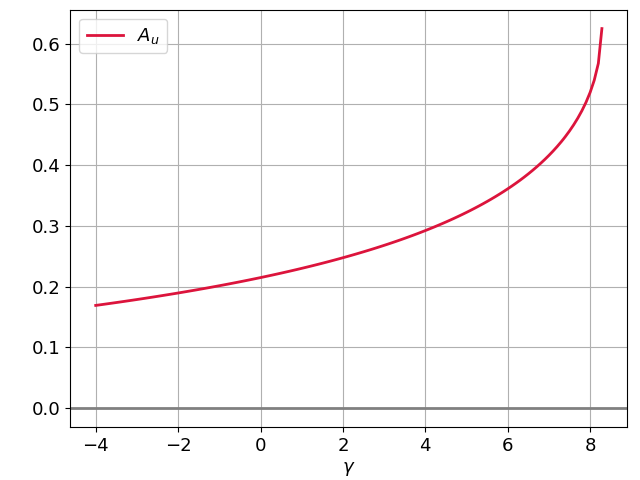
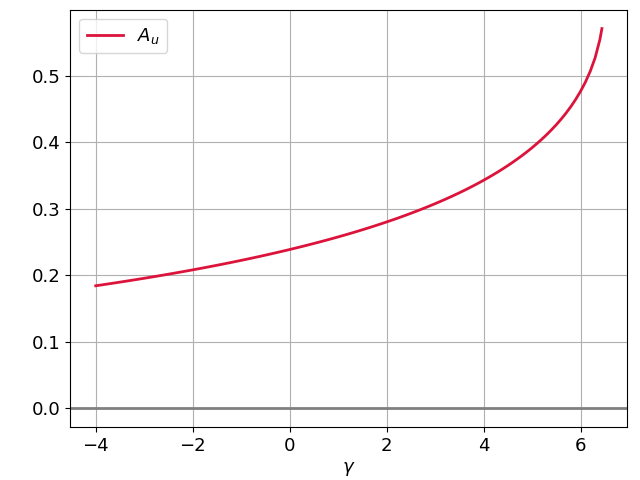
Добавлены дополнительные результаты подсчета коэффициентов нормальной формы для видоизмененной краевой задачи, добавлены скрипт и численные результаты коэффициента d нормальной формы для нелинейной краевой задачи с интегральным отклонением в краевом условии

diff --git a/Scripts/divergent_draw_alpha_dependency.py b/Scripts/divergent_draw_alpha_dependency.py
@@ -2,9 +2,9 @@ import numpy as np
 import matplotlib.pyplot as plt
 
 
-x0 = 0.99
+x0 = 0.49
 g_min = -4.1
-g_max = 160.1
+g_max = 10.1
 n_points = 10000
 
 
@@ -17,6 +17,9 @@ def get_alpha_u(g, x0):
         return -mu*np.sin(mu)/np.cos(mu*x0)
 
 
+def get_gamma_local_min(gammas, alphas):
+    return gammas[alphas.index(min(alphas))]
+
 def visualise_alphas(gs, aus):
     plt.rcParams.update({'font.size': 13})
     plt.rcParams['savefig.directory'] = '../Tracer/Results/Dynamics of alpha_u'
@@ -28,8 +31,12 @@ def visualise_alphas(gs, aus):
     plt.plot(gs, aus, color='b', linewidth=2, zorder=3)
     plt.axhline(y=0.0, linewidth=2, color='grey', zorder=2)
     plt.axvline(x=0.0, linewidth=2, color='grey', zorder=2)
-    x1,x2,y1,y2 = plt.axis()
-    plt.axis((x1,x2,-50.0,50.0))
+    g_loc = get_gamma_local_min(gammas, alpha_u)
+    if g_loc != gs[-1]:
+        plt.axvline(x=g_loc, linewidth=2, color='grey', linestyle='--', zorder=2)
+        print('g_loc = = {:.5}'.format(g_loc))
+    #x1,x2,y1,y2 = plt.axis()
+    #plt.axis((x1,x2,-50.0,50.0))
     plt.show()
 
 

diff --git a/Tracer/Variations/Cubic Boundary Condition/x0=0.49/README.md b/Tracer/Variations/Cubic Boundary Condition/x0=0.49/README.md
@@ -1,0 +1,1 @@
+u25
